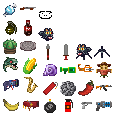
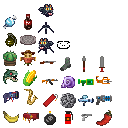
Nuevo arma: la trituradora de hielo y cambios en algunos sprites

diff --git a/core/src/main/java/com/tikisadventure/enemies/behavior/PouncingBounceBehavior.java b/core/src/main/java/com/tikisadventure/enemies/behavior/PouncingBounceBehavior.java
@@ -80,7 +80,7 @@ public class PouncingBounceBehavior implements EnemyBehavior {
                     }
                     
                     toTarget.nor();
-                    enemy.getPosition().mulAdd(toTarget, approachSpeed * deltaTime);
+                    enemy.getPosition().mulAdd(toTarget, enemy.getSpeed() * deltaTime);
                     enemy.setEstado(Entity.Estado.walking);
                 } else {
                     currentState = PounceState.TRANSFORMING;
@@ -110,7 +110,7 @@ public class PouncingBounceBehavior implements EnemyBehavior {
 
             case POUNCING:
                 if (distance > 0.1f) {
-                    enemy.getPosition().mulAdd(bounceDirection, pounceSpeed * deltaTime);
+                    enemy.getPosition().mulAdd(bounceDirection, enemy.getSpeed() * 3.33f * deltaTime);
                     enemy.setEstado(Entity.Estado.walking);
                 } else {
                     currentState = PounceState.BOUNCING;
@@ -121,7 +121,7 @@ public class PouncingBounceBehavior implements EnemyBehavior {
 
             case BOUNCING:
                 stateTimer += deltaTime;
-                enemy.getPosition().mulAdd(bounceDirection, bounceForce * deltaTime);
+                enemy.getPosition().mulAdd(bounceDirection, enemy.getSpeed() * 1.33f * deltaTime);
                 enemy.setEstado(Entity.Estado.walking);
                 
                 if (stateTimer >= 0.5f) {

diff --git a/core/src/main/java/com/tikisadventure/combat/weapons/WeaponFactory.java b/core/src/main/java/com/tikisadventure/combat/weapons/WeaponFactory.java
@@ -17,6 +17,7 @@ import com.tikisadventure.combat.weapons.modifiers.ChainHitModifier;
 import com.tikisadventure.combat.weapons.modifiers.ExplosiveModifier;
 import com.tikisadventure.combat.weapons.modifiers.PoisonModifier;
 import com.tikisadventure.combat.weapons.modifiers.RandomSpriteModifier;
+import com.tikisadventure.combat.weapons.modifiers.SlownessModifier;
 import com.tikisadventure.combat.weapons.modifiers.WaveMotionModifier;
 import com.tikisadventure.components.BurningComponent;
 import com.tikisadventure.components.PoisonComponent;
@@ -261,6 +262,13 @@ public class WeaponFactory {
                     ));
                 } else if (type.equals("poison")) {
                     weapon.addModifier(new PoisonModifier(
+                        mod.getFloat("damage"),
+                        mod.getFloat("interval"),
+                        mod.getFloat("duration")
+                    ));
+                } else if (type.equals("slowness")) {
+                    weapon.addModifier(new SlownessModifier(
+                        mod.getFloat("speedMult", 0.5f),
                         mod.getFloat("damage"),
                         mod.getFloat("interval"),
                         mod.getFloat("duration")

diff --git a/core/src/main/java/com/tikisadventure/entities/player/Player.java b/core/src/main/java/com/tikisadventure/entities/player/Player.java
@@ -50,6 +50,7 @@ public class Player extends Entity {
     private float explosiveDamageBonus = 0f;
     private float fireDamageBonus = 0f;
     private float poisonDamageBonus = 0f;
+    private float slowDamageBonus = 0f;
     private float critChanceBonus = 0f;
     private float extraHealthGained = 0f;
 
@@ -399,6 +400,9 @@ public class Player extends Entity {
 
     public float getPoisonDamageBonus() { return poisonDamageBonus; }
     public void addPoisonDamageBonus(float amount) { this.poisonDamageBonus += amount; }
+
+    public float getSlowDamageBonus() { return slowDamageBonus; }
+    public void addSlowDamageBonus(float amount) { this.slowDamageBonus += amount; }
 
     public float getCritChanceBonus() { return critChanceBonus; }
     public void addCritChanceBonus(float amount) { this.critChanceBonus += amount; }

diff --git a/core/src/main/java/com/tikisadventure/ui/LeaderboardUI.java b/core/src/main/java/com/tikisadventure/ui/LeaderboardUI.java
@@ -229,7 +229,7 @@ public class LeaderboardUI extends Window {
         if (gadgetId.contains("explosive")) gadgetTexturePath = "weapons_assets/ShakedCola";
         else if (gadgetId.contains("fire")) gadgetTexturePath = "weapons_assets/Jalapeno";
         else if (gadgetId.contains("freeze")) gadgetTexturePath = "weapons_assets/IceCandy";
-        else if (gadgetId.contains("cactus")) gadgetTexturePath = "weapons_assets/Cactus";
+        else if (gadgetId.contains("cactus")) gadgetTexturePath = "weapons_assets/Sock";
         else if (gadgetId.contains("sewer")) gadgetTexturePath = "weapons_assets/Sewer";
         else if (gadgetId.contains("sheel")) gadgetTexturePath = "weapons_assets/MagicSheel";
         else if (gadgetId.contains("scarecrow")) gadgetTexturePath = "weapons_assets/Scarecrow";

diff --git a/core/src/main/java/com/tikisadventure/ui/HistoryUI.java b/core/src/main/java/com/tikisadventure/ui/HistoryUI.java
@@ -299,7 +299,7 @@ public class HistoryUI extends Window {
         if (gadgetId.contains("explosive")) gadgetTexturePath = "weapons_assets/ShakedCola";
         else if (gadgetId.contains("fire")) gadgetTexturePath = "weapons_assets/Jalapeno";
         else if (gadgetId.contains("freeze")) gadgetTexturePath = "weapons_assets/IceCandy";
-        else if (gadgetId.contains("cactus")) gadgetTexturePath = "weapons_assets/Cactus";
+        else if (gadgetId.contains("cactus")) gadgetTexturePath = "weapons_assets/Sock";
         else if (gadgetId.contains("sewer")) gadgetTexturePath = "weapons_assets/Sewer";
         else if (gadgetId.contains("sheel")) gadgetTexturePath = "weapons_assets/MagicSheel";
         else if (gadgetId.contains("scarecrow")) gadgetTexturePath = "weapons_assets/Scarecrow";

diff --git a/core/src/main/java/com/tikisadventure/enemies/behavior/ChaserBehavior.java b/core/src/main/java/com/tikisadventure/enemies/behavior/ChaserBehavior.java
@@ -42,7 +42,7 @@ public class ChaserBehavior implements EnemyBehavior {
             // Si está fuera del rango de ataque, perseguir
             if (distance > attackRange) {
                 // Set velocity instead of modifying position directly
-                enemy.getComponent(com.tikisadventure.components.VelocityComponent.class).velocidad.set(direction).scl(speed);
+                enemy.getComponent(com.tikisadventure.components.VelocityComponent.class).velocidad.set(direction).scl(enemy.getSpeed());
                 enemy.setEstado(Entity.Estado.walking);
             } else {
                 // Está en rango, atacar

diff --git a/core/src/main/java/com/tikisadventure/enemies/behavior/RangedBehavior.java b/core/src/main/java/com/tikisadventure/enemies/behavior/RangedBehavior.java
@@ -82,7 +82,7 @@ public class RangedBehavior implements EnemyBehavior {
             target.getPosition().y - enemy.getPosition().y
         ).nor();
         
-        enemy.getPosition().mulAdd(direction, speed * delta);
+        enemy.getPosition().mulAdd(direction, enemy.getSpeed() * delta);
         enemy.setEstado(Entity.Estado.walking);
         enemy.setMirarDerecha(direction.x > 0);
     }

diff --git a/core/src/main/java/com/tikisadventure/combat/weapons/Weapon.java b/core/src/main/java/com/tikisadventure/combat/weapons/Weapon.java
@@ -289,6 +289,9 @@ public class Weapon {
                 case POISON:
                     baseDamage *= (1f + playerOwner.getPoisonDamageBonus());
                     break;
+                case SLOW:
+                    baseDamage *= (1f + playerOwner.getSlowDamageBonus());
+                    break;
                 default:
                     break;
             }

diff --git a/core/src/main/java/com/tikisadventure/combat/DamageType.java b/core/src/main/java/com/tikisadventure/combat/DamageType.java
@@ -1,5 +1,5 @@
 package com.tikisadventure.combat;
 
 public enum DamageType {
-    KINETIC, ENERGY, EXPLOSIVE, FIRE, POISON
+    KINETIC, ENERGY, EXPLOSIVE, FIRE, POISON, SLOW
 }

diff --git a/core/src/main/java/com/tikisadventure/combat/StatusType.java b/core/src/main/java/com/tikisadventure/combat/StatusType.java
@@ -1,5 +1,5 @@
 package com.tikisadventure.combat;
 
 public enum StatusType {
-    BURNING, POISONED, FREEZE
+    BURNING, POISONED, FREEZE, SLOW
 }
